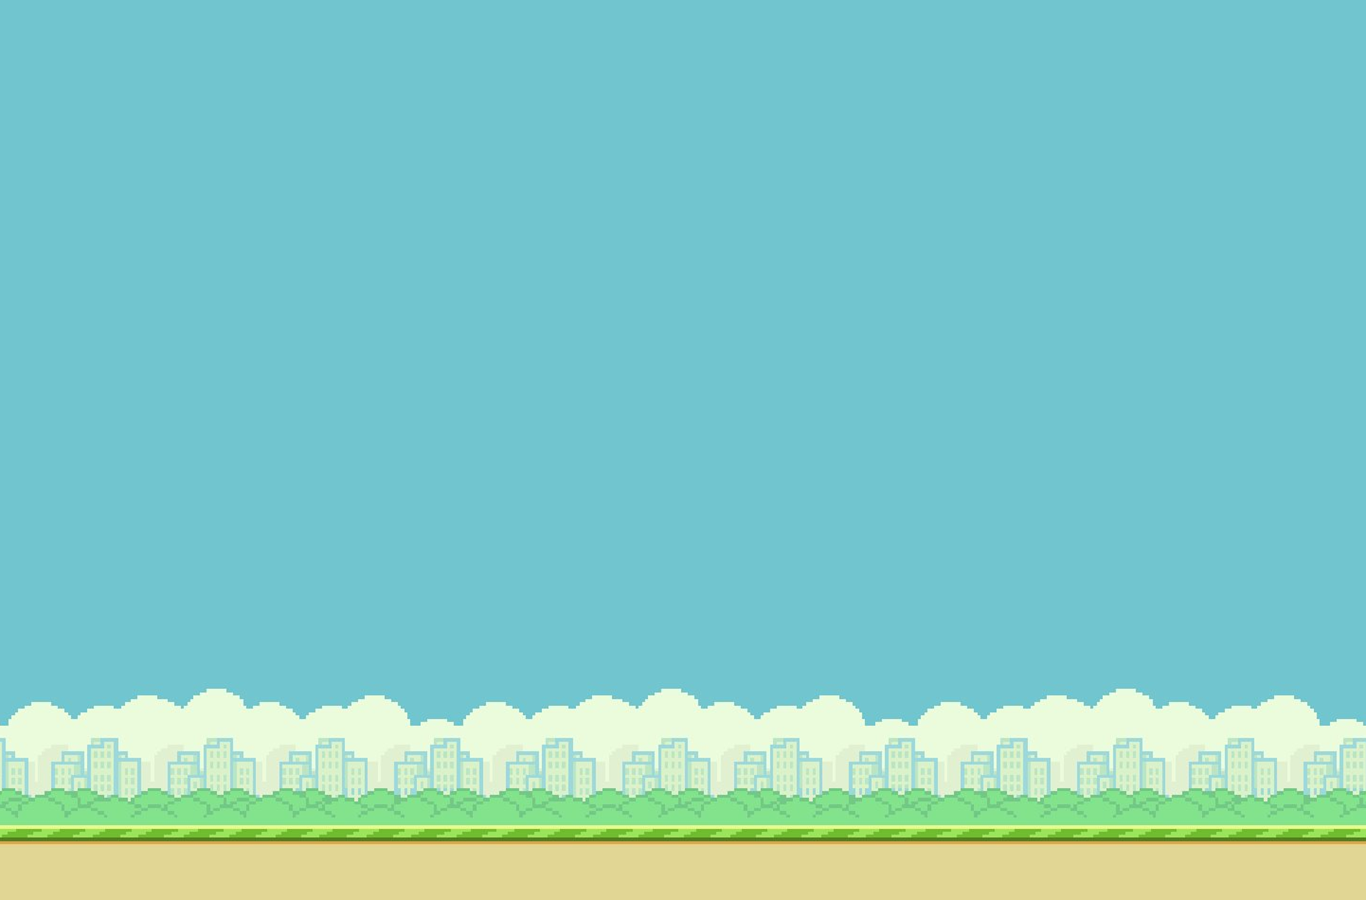
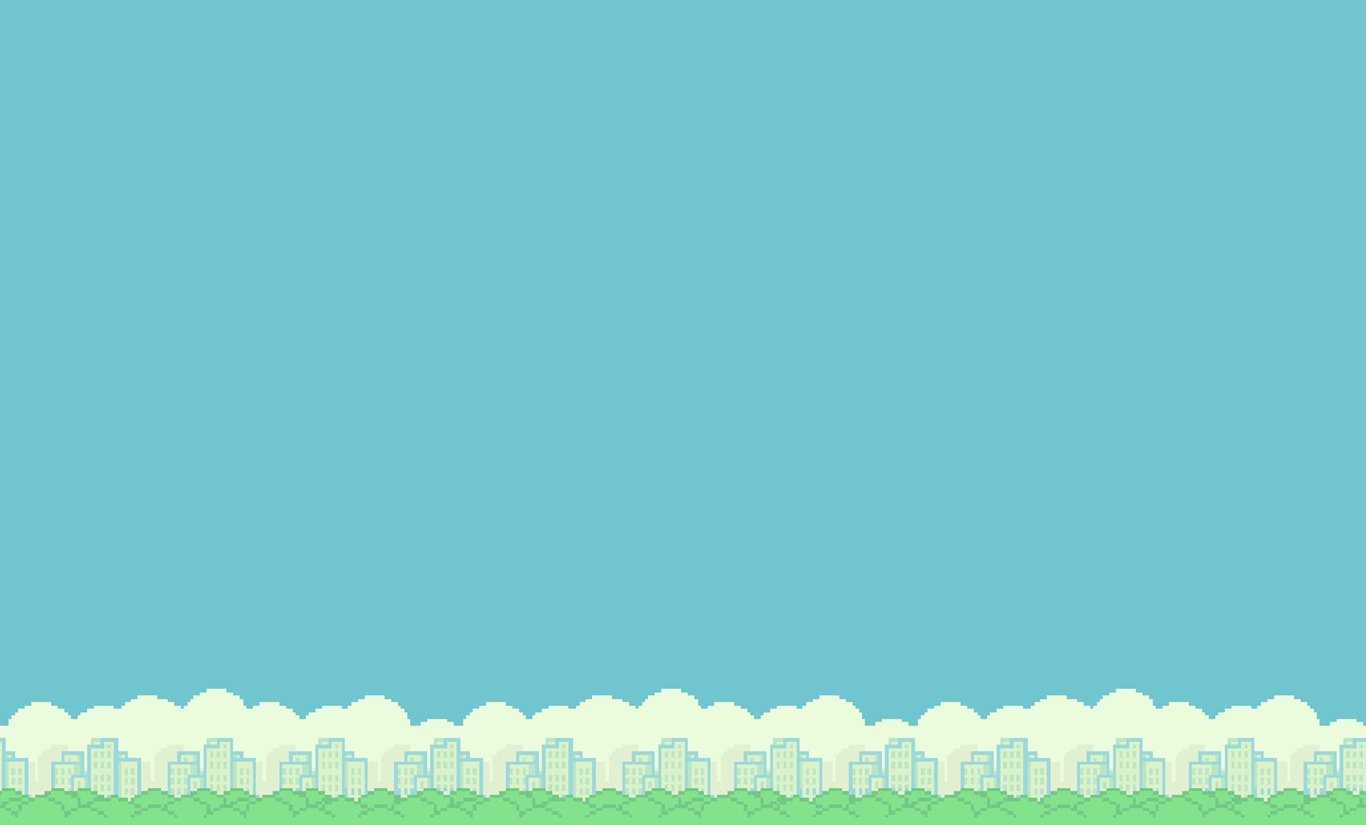
added ground

Changed region(s): [[0.0, 0.7576, 1.0, 1.0]]

diff --git a/src/bird.js b/src/bird.js
@@ -3,11 +3,11 @@ class Bird {
     this.radius = 25;
 
     this.x0 = window.canvas.width * 0.3;
-    this.y0 = window.canvas.height / 2;
+    this.y0 = playableHeight / 2;
     this.x = this.x0;
     this.y = this.y0;
 
-    this.yMax = window.canvas.height - this.radius;
+    this.yMax = playableHeight - this.radius;
     this.yMin = this.radius;
 
     this.gravity = 0.8;
@@ -74,7 +74,7 @@ class Bird {
 
   checkCollision(pipePairs, ticks) {
     if (!this.died_at) {
-      if (this.y + this.radius == window.canvas.height) {
+      if (this.y + this.radius >= playableHeight) {
         this.died_at = ticks;
       } else {
         for (let pipePair of pipePairs) {
@@ -121,9 +121,9 @@ function collisionDetection(circle, rect) {
     return { y: false, x: true };
   }
 
-  var dx = distX - rect.w / 2;
-  var dy = distY - rect.h / 2;
-  return dx * dx + dy * dy <= circle.r * circle.r
+  var xSpeed = distX - rect.w / 2;
+  var ySpeed = distY - rect.h / 2;
+  return xSpeed * xSpeed + ySpeed * ySpeed <= circle.r * circle.r
     ? { y: true, x: true }
     : { y: false, x: false };
 }

diff --git a/index.html b/index.html
@@ -14,7 +14,6 @@
         justify-content: center;
       }
     	canvas { 
-        background-image: url(../images/background.png);
         padding: 0;
         margin: auto;
         display: block;
@@ -48,6 +47,8 @@
 
   <script language="javascript" type="text/javascript" src="src/background.js"></script>
   <script language="javascript" type="text/javascript" src="src/backgroundGenerator.js"></script>
+  <script language="javascript" type="text/javascript" src="src/ground.js"></script>
+  <script language="javascript" type="text/javascript" src="src/groundGenerator.js"></script>
   <script language="javascript" type="text/javascript" src="src/score.js"></script>
   <script language="javascript" type="text/javascript" src="src/player.js"></script>
   <script language="javascript" type="text/javascript" src="src/botGroup.js"></script>

diff --git a/src/pipePair.js b/src/pipePair.js
@@ -1,20 +1,20 @@
 class PipePair {
   constructor() {
     this.voidHeight = window.player ? 175 : 100;
-    this.minY = Math.max(70, window.canvas.height / 2 - 350);
+    this.minY = Math.max(70, playableHeight / 2 - 350);
 
     this.behindBird = false;
 
     this.voidY = randomIntFromInterval(
       this.minY,
-      window.canvas.height - this.minY - this.voidHeight
+      playableHeight - this.minY - this.voidHeight
     );
 
     this.pipes = [
       new Pipe(window.canvas.width + 100, this.voidY, true),
       new Pipe(
         window.canvas.width + 100,
-        window.canvas.height - this.voidHeight - this.voidY,
+        playableHeight - this.voidHeight - this.voidY,
         false
       ),
     ];

diff --git a/src/index.js b/src/index.js
@@ -3,6 +3,7 @@ window.ctx = window.canvas.getContext("2d");
 
 window.canvas.width = window.innerWidth - 3;
 window.canvas.height = window.innerHeight;
+var playableHeight = window.canvas.height;
 
 function start(player, botGroup) {
   window.player = player;
@@ -12,6 +13,7 @@ function start(player, botGroup) {
 
   let ticks = 0;
 
+  var groundGenerator = new GroundGenerator();
   var backgroundGenerator = new BackgroundGenerator();
   var pipeGenerator = new PipeGenerator();
   var score = new Score();
@@ -33,6 +35,7 @@ function start(player, botGroup) {
 
     backgroundGenerator.draw();
     pipeGenerator.draw();
+    groundGenerator.draw();
 
     if (player) {
       player.bird.move();

diff --git a/src/pipe.js b/src/pipe.js
@@ -1,3 +1,5 @@
+const pipeXSpeed = -2.5;
+
 class Pipe {
   constructor(x, height, isAtTop) {
     this.isAtTop = isAtTop;
@@ -5,7 +7,7 @@ class Pipe {
     this.img.onload = (i) => {
       this.y = this.isAtTop
         ? this.height - i.target.height
-        : window.canvas.height - this.height;
+        : playableHeight - this.height;
 
       this.height = i.target.height;
     };
@@ -22,11 +24,11 @@ class Pipe {
     this.width = 100;
     this.height = height;
 
-    this.dx = -2.5;
+    this.xSpeed = pipeXSpeed;
   }
 
   draw() {
-    this.x += this.dx;
+    this.x += this.xSpeed;
 
     window.ctx.drawImage(this.img, this.x, this.y, this.width, this.height);
   }

diff --git a/src/groundGenerator.js b/src/groundGenerator.js
@@ -1,0 +1,27 @@
+class GroundGenerator {
+  constructor() {
+    var ground2 = new Ground(0);
+    var ground1 = new Ground(0, (i) => {
+      ground2.x = i.target.width + ground1.x;
+    });
+
+    this.grounds = [ground1, ground2];
+  }
+
+  draw() {
+    if (!this.grounds.find((b) => !b.width)) {
+      this.grounds.forEach((ground) => {
+        ground.move();
+      });
+
+      var groundsEnding = Math.max(...this.grounds.map((b) => b.x + b.width));
+
+      this.grounds.forEach((ground) => {
+        if (ground.x + ground.width <= 0) {
+          ground.x = groundsEnding;
+        }
+        ground.draw();
+      });
+    }
+  }
+}

diff --git a/src/ground.js b/src/ground.js
@@ -1,0 +1,25 @@
+class Ground {
+  constructor(x, onLoadFunction) {
+    this.img = new Image();
+    this.img.src = "../images/ground.png";
+    this.img.onload = (i) => {
+      this.width = i.target.width;
+      this.y = window.canvas.height - this.height;
+      if (onLoadFunction) {
+        onLoadFunction(i);
+      }
+    };
+    this.x = x;
+    this.xSpeed = pipeXSpeed;
+    this.height = 60;
+    playableHeight = window.canvas.height - this.height;
+  }
+
+  move() {
+    this.x += this.xSpeed;
+  }
+
+  draw() {
+    window.ctx.drawImage(this.img, this.x, this.y, this.width, this.height);
+  }
+}

diff --git a/src/background.js b/src/background.js
@@ -11,20 +11,14 @@ class Background {
     };
     this.x = x;
     this.y = 0;
-    this.dx = -1;
+    this.xSpeed = -0.5;
   }
 
   move() {
-    this.x += this.dx;
+    this.x += this.xSpeed;
   }
 
   draw() {
-    window.ctx.drawImage(
-      this.img,
-      this.x,
-      this.y,
-      this.width,
-      window.canvas.height
-    );
+    window.ctx.drawImage(this.img, this.x, this.y, this.width, playableHeight);
   }
 }
